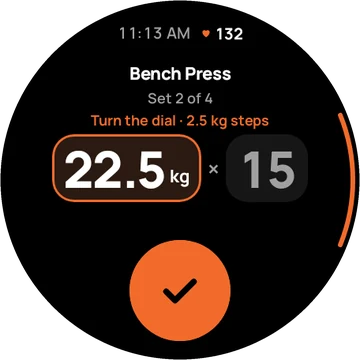
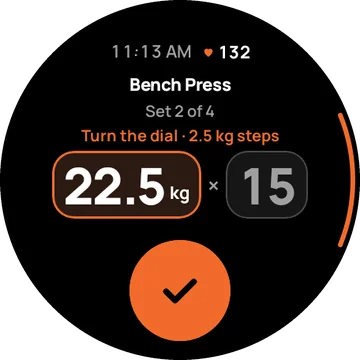
Member site: newest watch screens (owner, 14 Nov 2026)
All nine build-made watch pictures now come from watch-screens at f7f1ea53 (12 Nov):
numbers in outlined boxes and the dial hint (R-455). Same 360 px round crop.

diff --git a/apps/dashboard/public/member-site/index.html b/apps/dashboard/public/member-site/index.html
@@ -3,7 +3,7 @@
      mettleup.fit" + "highlight the watch app ... for iPhone we can say it's coming soon"). Same look as the gym
      page (public/home/): one idea per section, shown by a real app or watch screen, one main button ("Get the
      app, free") everywhere. Every phone picture is a real app screen (store-shots, *.webp.json says where);
-     every watch face is a real screen from the watch build (wear-build artifact watch-screens, 3 Nov 2026).
+     every watch face is a real screen from the watch build (wear-build artifact watch-screens, refreshed 14 Nov 2026 from commit f7f1ea53).
      No prices. The only gym block is "recommend MettleUp to your gym". The site's security policy runs no
      inline script: member.js does the language switch, the scenes, the share button and the bottom bar. -->
 <html lang="en">
